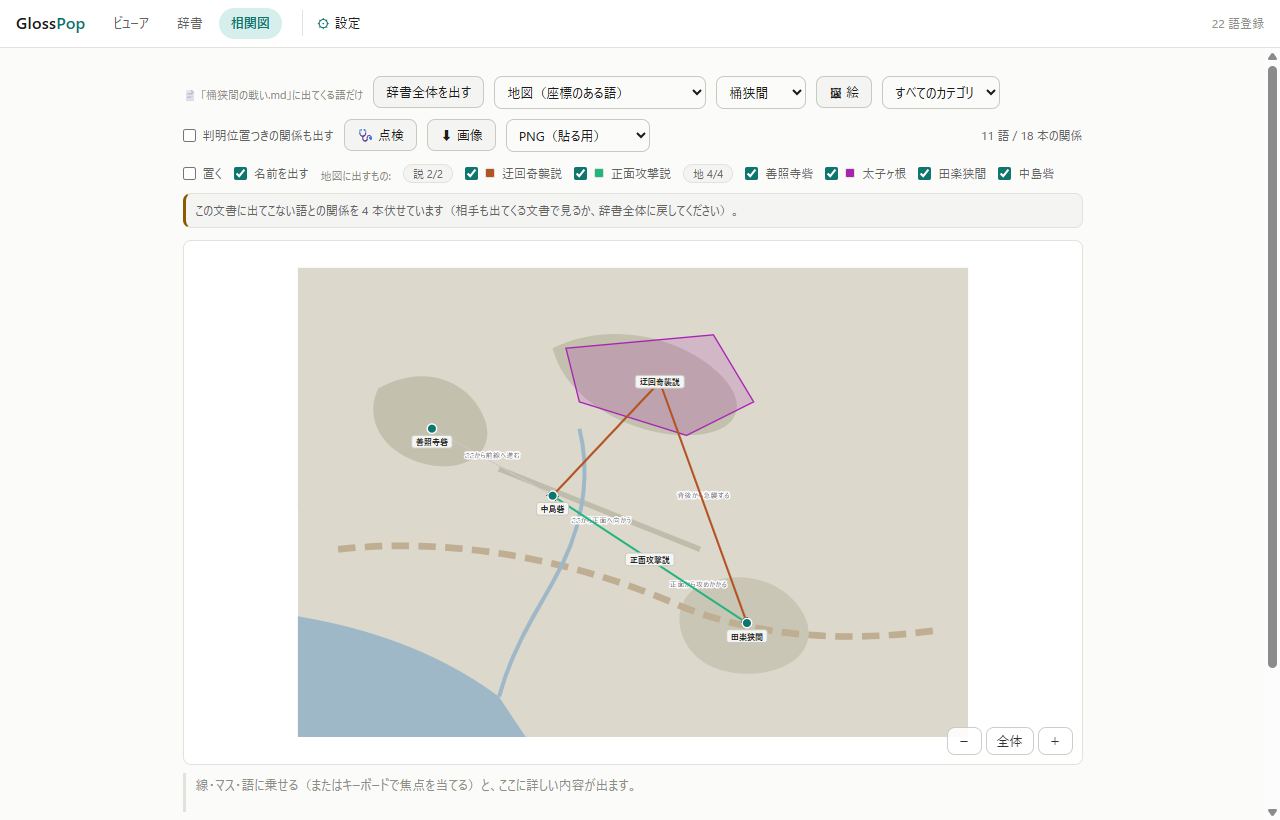
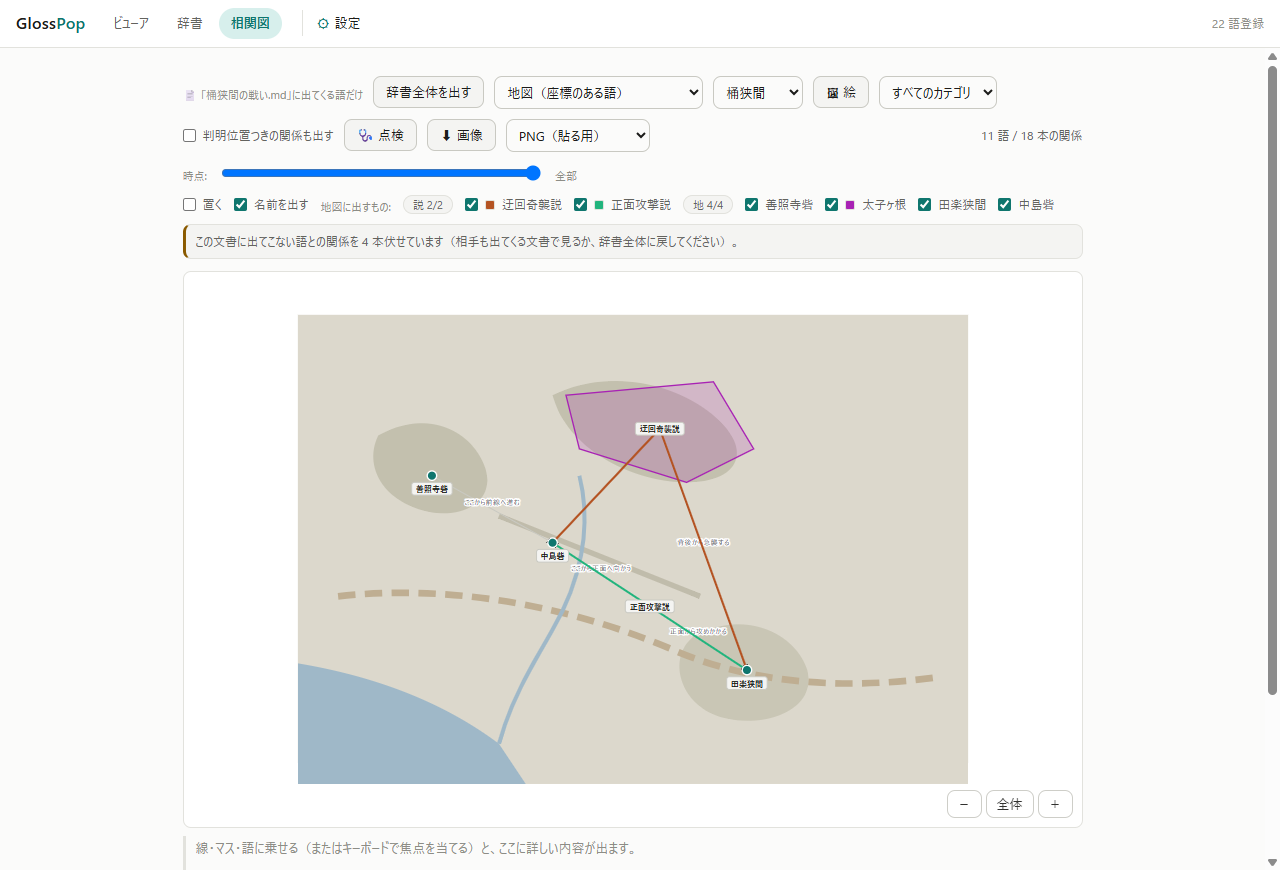
サンプルの戦国時代に作中の時刻を入れる
**動く実物にする。** 時刻を入れる仕組みだけあっても、置いて開いた人には
何も起きない —— 桶狭間・姉川・本能寺の関係 25 本に `when` を書いた。

- **時系列（作中の時刻）** が 1560 → 1562 → 1570 → 1582 の順に並ぶ。
  文書を開いていなくても出せるので、辞書全体でそのまま見られる
- **桶狭間の地図が再生になる** —— 12:00 前線へ / 13:00 二手に分かれる /
  14:00 両説とも田楽狭間へ、と**進軍路が順に伸びる**（止まれる時点は 3 つ）
- **時刻を書かない関係も 10 本残してある**（続いている関係や、いつとは言えない
  もの）。混ざった状態こそが普通なので、サンプルもそうしてある

**細かくしすぎない。** 日付は和暦を西暦に直した慣用の値で、**時刻まで書いたのは
慣用的にそう言われているところだけ**（昼ごろ善照寺砦を出る / 未の刻ごろ本陣を襲う）。
清洲同盟は日が諸説あるので **年だけ**（`1562 永禄五年`。粗い書き方の実物にもなる）。
**進軍路そのものは確定していない** —— だから説を別のエントリにしてある、という
この辞書の主旨は変えていない。samples/README.md にそう書き添えた。

**同じ時刻を 2 通りに書かない。** 帯は「並べ替えの値も見出しも同じ」ものだけを
束ねるので、`1560-06-12` と `1560-06-12 昼ごろ` を混ぜると帯が割れる
（こちらで片方に寄せると、書いていない文字列が見出しに出る）。サンプルを揃え、
`bandsOf()` の説明を実装に合わせた。

スクショも撮り直した（時点のスライダが増えたぶん、縦を少し広げてある）。

diff --git a/glosspop/static/timeline.js b/glosspop/static/timeline.js
@@ -94,8 +94,11 @@ function bandsOf(edges, axis) {
     const label = edges[i][labelKey] || "";
     const last = bands[bands.length - 1];
     // 位置は増える一方なので、同じ見出しは必ず続きになる（飛び地はできない）。
-    // **見出しではなく並べ替えの値で束ねる** —— 作中の時刻は書き方が揃うとは
-    // 限らず（`1560` と `1560-05-19`）、同じ文字列でも別の時刻でありうる
+    // **束ねるのは「並べ替えの値も見出しも同じ」ものだけ。** 作中の時刻は人が
+    // 書くので、同じ時刻を 2 通りに書けてしまう（`1560-06-12` と
+    // `1560-06-12 昼ごろ`）—— こちらで片方に寄せると、**書いていない文字列が
+    // 見出しに出る**（人の言葉を置き換えない、という約束のほうを採る）。
+    // 読む順の軸では位置から見出しを作るので、この枝はそもそも効かない
     if (last && last.label === label && last.at === edges[i][at]) last.rows.push(i);
     else bands.push({ label, at: edges[i][at], rows: [i] });
   }

diff --git a/samples/README.md b/samples/README.md
@@ -7,7 +7,7 @@
 | --- | --- |
 | [坊っちゃん](坊っちゃん/) | 夏目漱石（青空文庫）。**登場人物 8 + 場所・もの 4、関係 17 本。**<br>あだ名と本名が別名でつながっている（山嵐＝堀田、うらなり＝古賀、狸＝校長、赤シャツ＝教頭）。<br>語り手の「おれ」の口調で書いてある |
 | [吾輩は猫である](吾輩は猫である/) | 夏目漱石（青空文庫）。**猫 3 + 人間 12 + 場所・もの 2。**<br>**猫が人間を解説する**辞書。カテゴリが「猫」と「人間」に分かれている。<br>本文 32 万字の長編なので、抽出は全体から間引いて読ませている |
-| [戦国時代](戦国時代/) | **小説ではなく、史実と諸説の並記を試した辞書**（本文もこのリポジトリで書いたもの）。<br>**事件 3 + 説 2 + 人 9 + 地 8、関係 34 本。**<br>桶狭間・姉川・本能寺を**戦いごとに別ファイル**にしてあるので、**🕸 この文書の相関図** が戦いごとの図になる（11 語 / 9 語 / 7 語）。<br>徳川家康は桶狭間では今川方（**松平元康**）、姉川では織田方 —— **人は戦いをまたぐ**。<br>進軍路が確定していない桶狭間だけ、**説を別のエントリ**にしてある。<br>**地図**（相関図の見せ方）も入っている —— 広域図に 3 つの戦い、局地図に桶狭間の 4 か所。<br>**2 つの説がそれぞれ線（`line`）**、太子ヶ根が**領域（`area`）**、砦が**点（`pin`）** —— 分岐した進軍路が地図の上で見える。<br>絵は `.glosspop/maps/` の自作 SVG 略図（形を書いた語だけが出る）。<br>→ [docs/open-questions.md](../docs/open-questions.md) の 9 番 |
+| [戦国時代](戦国時代/) | **小説ではなく、史実と諸説の並記を試した辞書**（本文もこのリポジトリで書いたもの）。<br>**事件 3 + 説 2 + 人 9 + 地 8、関係 34 本。**<br>桶狭間・姉川・本能寺を**戦いごとに別ファイル**にしてあるので、**🕸 この文書の相関図** が戦いごとの図になる（11 語 / 9 語 / 7 語）。<br>徳川家康は桶狭間では今川方（**松平元康**）、姉川では織田方 —— **人は戦いをまたぐ**。<br>進軍路が確定していない桶狭間だけ、**説を別のエントリ**にしてある。<br>**地図**（相関図の見せ方）も入っている —— 広域図に 3 つの戦い、局地図に桶狭間の 4 か所。<br>**2 つの説がそれぞれ線（`line`）**、太子ヶ根が**領域（`area`）**、砦が**点（`pin`）** —— 分岐した進軍路が地図の上で見える。<br>**作中の時刻（`when`）も入れてある** —— 時系列を「作中の時刻」で並べると 1560 → 1570 → 1582 の順になり、桶狭間の地図は**時点で巻き戻すと 2 つの進軍路が順に伸びる**。<br>絵は `.glosspop/maps/` の自作 SVG 略図（形を書いた語だけが出る）。<br>→ [docs/open-questions.md](../docs/open-questions.md) の 9 番 |
 
 > **ネタバレを含みます。** 作品を未読で読む予定があるなら、先に本文を読んでください。
 > 坊っちゃんは **17 本の関係のうち 10 本に判明位置が書いてある**ので、相関図では
@@ -17,6 +17,13 @@
 > 吾輩は猫であるのほうは**判明位置を 1 つも書いていません**。章ごとに何かが明かされる
 > 作りではなく、AI も 1 本も書けなかったからです。**分からない位置を埋めると
 > 時系列の並びが嘘になる**ので、空のままにしてあります。
+
+> **戦国時代の時刻について。** 日付（`1560-06-12` など）は和暦を西暦に直した
+> 慣用の値で、**時刻まで書いてあるのは慣用的にそう言われているところだけ**です
+> （信長が善照寺砦から進んだ昼ごろ、今川本陣を襲った未の刻ごろ）。
+> **進軍路そのものは確定していません** —— だから説を別のエントリにしてあります。
+> 時刻の分からない関係（続いている関係や、いつとは言えないもの）には
+> **何も書いていません**。埋めると、並びが嘘になるためです。
 
 [Releases](https://github.com/lancard-aikawa/GlossPop/releases/latest) に
 `GlossPop-samples-<version>.zip` も置いてあります（中身はこのフォルダと同じ）。

diff --git a/samples/戦国時代/.glosspop/glossary/事件/姉川の戦い.md b/samples/戦国時代/.glosspop/glossary/事件/姉川の戦い.md
@@ -7,16 +7,22 @@ examples:
 relations:
 - to: 織田信長
   label: 織田方の大将
+  when: 1570-07-30 元亀元年六月二十八日
 - to: 徳川家康
   label: 織田方として加わる
+  when: 1570-07-30 元亀元年六月二十八日
 - to: 羽柴秀吉
   label: 織田方として参陣したとされる
+  when: 1570-07-30 元亀元年六月二十八日
 - to: 浅井長政
   label: 敵対した側の大将
+  when: 1570-07-30 元亀元年六月二十八日
 - to: 朝倉義景
   label: 浅井に加勢する
+  when: 1570-07-30 元亀元年六月二十八日
 - to: 姉川
   label: 決着の地
+  when: 1570-07-30 元亀元年六月二十八日
 tags:
 - 姉川
 source: 姉川の戦い.md

diff --git a/samples/戦国時代/.glosspop/glossary/事件/本能寺の変.md b/samples/戦国時代/.glosspop/glossary/事件/本能寺の変.md
@@ -7,16 +7,22 @@ examples:
 relations:
 - to: 明智光秀
   label: 謀反を起こした側
+  when: 1582-06-21 天正十年六月二日
 - to: 織田信長
   label: 討たれた側
+  when: 1582-06-21 天正十年六月二日
 - to: 織田信忠
   label: 同じ朝に討たれる
+  when: 1582-06-21 天正十年六月二日
 - to: 羽柴秀吉
   label: 報を受けて引き返す
+  when: 1582-06-21 天正十年六月二日
 - to: 本能寺
   label: 信長の宿所
+  when: 1582-06-21 天正十年六月二日
 - to: 二条御所
   label: 信忠が討たれた地
+  when: 1582-06-21 天正十年六月二日
 tags:
 - 本能寺
 source: 本能寺の変.md

diff --git a/samples/戦国時代/.glosspop/glossary/人/織田信長.md b/samples/戦国時代/.glosspop/glossary/人/織田信長.md
@@ -12,6 +12,7 @@ relations:
   label: 田楽狭間で討ち取る
   back: 尾張へ攻め込む
   rank: 対等
+  when: 1560-06-12 永禄三年五月十九日
 - to: 浅井長政
   label: 妹を嫁がせるが背かれる
   back: 旧い盟約を重んじて背く
@@ -20,9 +21,11 @@ relations:
   label: 同盟を結ぶ
   back: 今川家を離れて応じる
   rank: 対等
+  when: 1562 永禄五年（清洲同盟）
 - to: 佐久間信盛
   label: 善照寺砦を任せる
   rank: 下
+  when: 1560-06-12 永禄三年五月十九日
 - to: 明智光秀
   label: 家臣として用いる
   rank: 下

diff --git a/samples/戦国時代/.glosspop/glossary/事件/桶狭間の戦い.md b/samples/戦国時代/.glosspop/glossary/事件/桶狭間の戦い.md
@@ -7,12 +7,16 @@ examples:
 relations:
 - to: 織田信長
   label: 尾張方の大将
+  when: 1560-06-12 永禄三年五月十九日
 - to: 今川義元
   label: 討たれた側の大将
+  when: 1560-06-12 永禄三年五月十九日
 - to: 徳川家康
   label: 今川方として従軍
+  when: 1560-06-12 永禄三年五月十九日
 - to: 田楽狭間
   label: 決着の地
+  when: 1560-06-12 永禄三年五月十九日
 - to: 迂回奇襲説
   label: 進軍路の説
 - to: 正面攻撃説

diff --git a/samples/戦国時代/.glosspop/glossary/説/正面攻撃説.md b/samples/戦国時代/.glosspop/glossary/説/正面攻撃説.md
@@ -9,8 +9,10 @@ relations:
   label: 中島砦から正面へ進む
 - to: 中島砦
   label: ここから正面へ向かう
+  when: 1560-06-12 13:00 永禄三年五月十九日 昼過ぎ
 - to: 田楽狭間
   label: 正面から攻めかかる
+  when: 1560-06-12 14:00 永禄三年五月十九日 未の刻ごろ
 tags:
 - 桶狭間
 source: 桶狭間の戦い.md

diff --git a/samples/戦国時代/.glosspop/glossary/説/迂回奇襲説.md b/samples/戦国時代/.glosspop/glossary/説/迂回奇襲説.md
@@ -9,8 +9,10 @@ relations:
   label: 太子ヶ根を経て背後へ回る
 - to: 太子ヶ根
   label: 迂回路として通る
+  when: 1560-06-12 13:00 永禄三年五月十九日 昼過ぎ
 - to: 田楽狭間
   label: 背後から急襲する
+  when: 1560-06-12 14:00 永禄三年五月十九日 未の刻ごろ
 tags:
 - 桶狭間
 source: 桶狭間の戦い.md

diff --git a/samples/戦国時代/.glosspop/glossary/地/善照寺砦.md b/samples/戦国時代/.glosspop/glossary/地/善照寺砦.md
@@ -7,6 +7,7 @@ examples:
 relations:
 - to: 中島砦
   label: ここから前線へ進む
+  when: 1560-06-12 12:00 永禄三年五月十九日 昼ごろ
 tags:
 - 桶狭間
 source: 桶狭間の戦い.md

diff --git a/samples/戦国時代/.glosspop/glossary/人/佐久間信盛.md b/samples/戦国時代/.glosspop/glossary/人/佐久間信盛.md
@@ -8,6 +8,7 @@ examples:
 relations:
 - to: 善照寺砦
   label: 守備につく
+  when: 1560-06-12 12:00 永禄三年五月十九日 昼ごろ
 tags:
 - 織田家
 source: 桶狭間の戦い.md
